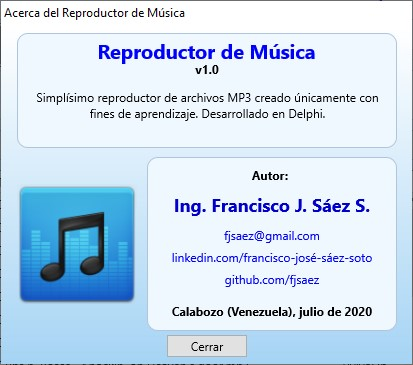
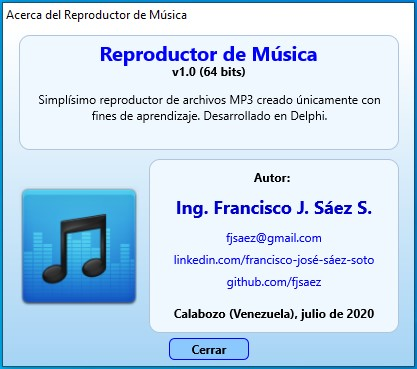
Actualizadas imágenes y texto del README

diff --git a/README.md b/README.md
@@ -9,7 +9,7 @@ Simplísimo reproductor de archivos MP3. Puede cargar uno o más archivos en un 
 ## Notas
 
 * Compilado para 32 y 64 bits.
-* No se usó ningún skin, aunque hay la intención de incorporarle alguno más adelante.
+* No se usó ningún skin, aunque se modificó el aspecto de algunos componentes.
 * **Aún en fase de desarrollo**, pero ya es totalmente funcional.
 * Es desarrollado únicamente con intenciones de aprendizaje.
 
@@ -20,6 +20,12 @@ Simplísimo reproductor de archivos MP3. Puede cargar uno o más archivos en un 
 * Lenguaje: Delphi 10.2 Tokyo, empleando sólo componentes nativos. 
 * Framework: Firemonkey. 
 * Base de datos: SQLite v3.
+
+---
+
+## Instalación
+
+No requiere de instalación y es totalmente portable. La aplicación consta de dos archivos: **ReproMusica.exe** (el ejecutable) y **ReproMusica.db** (la base de datos donde guarda el listado y configuración). Ambos deberán estar almacenados en la misma carpeta, pues de lo contrario el ejecutable se detendrá si no consigue la BD.
 
 ---
 
